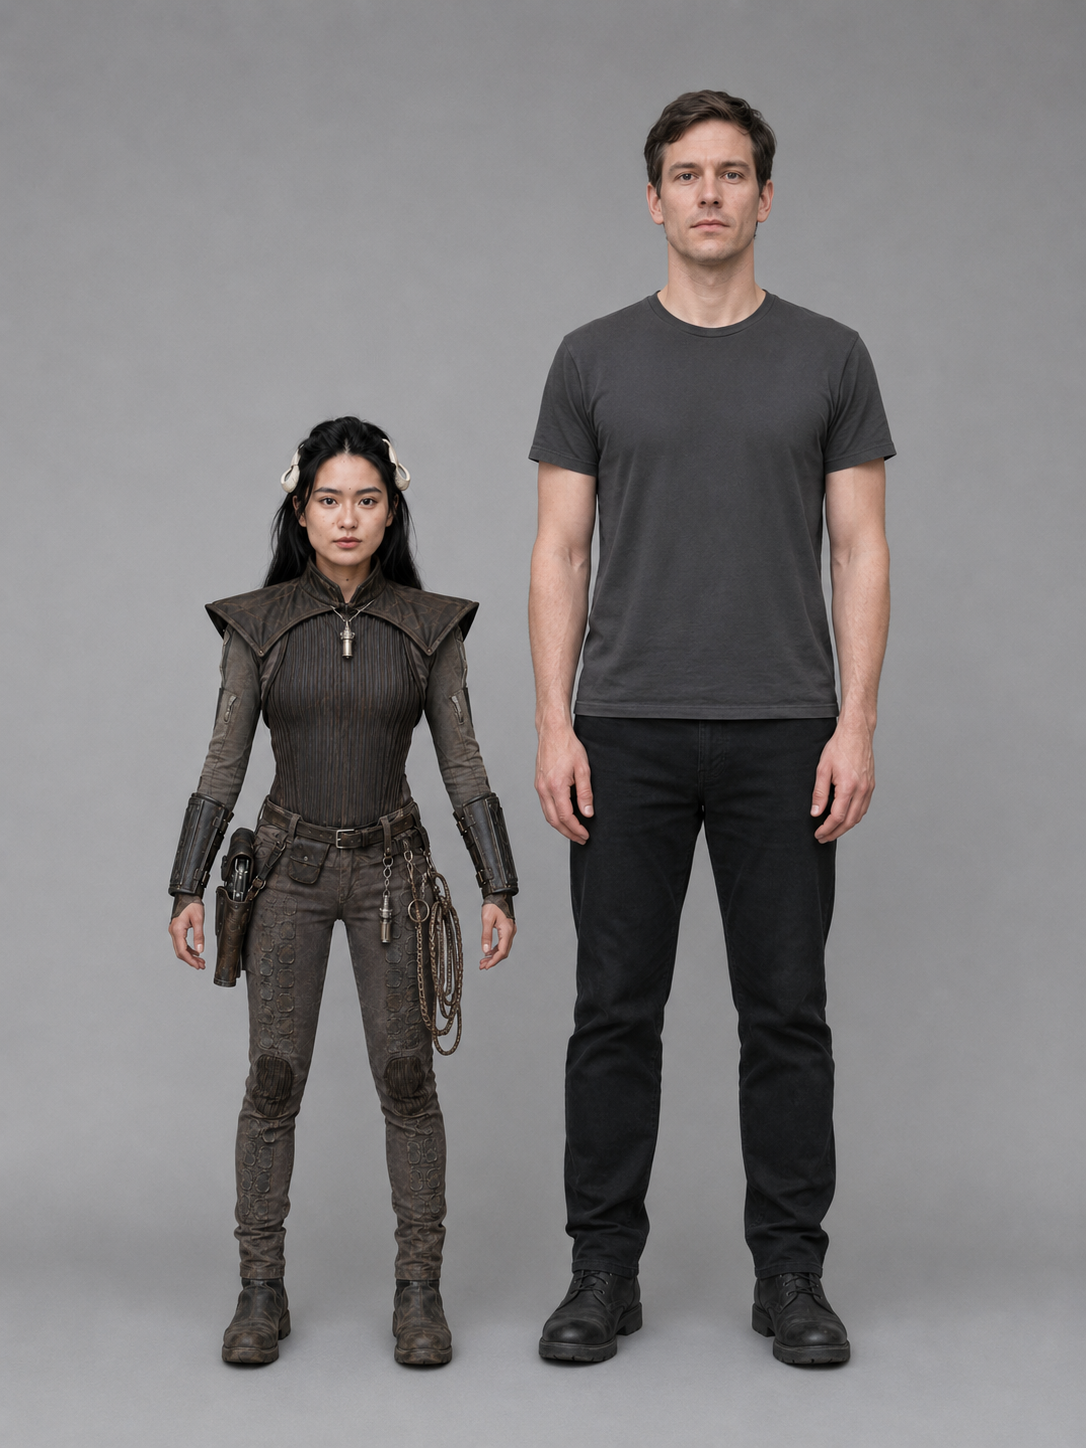
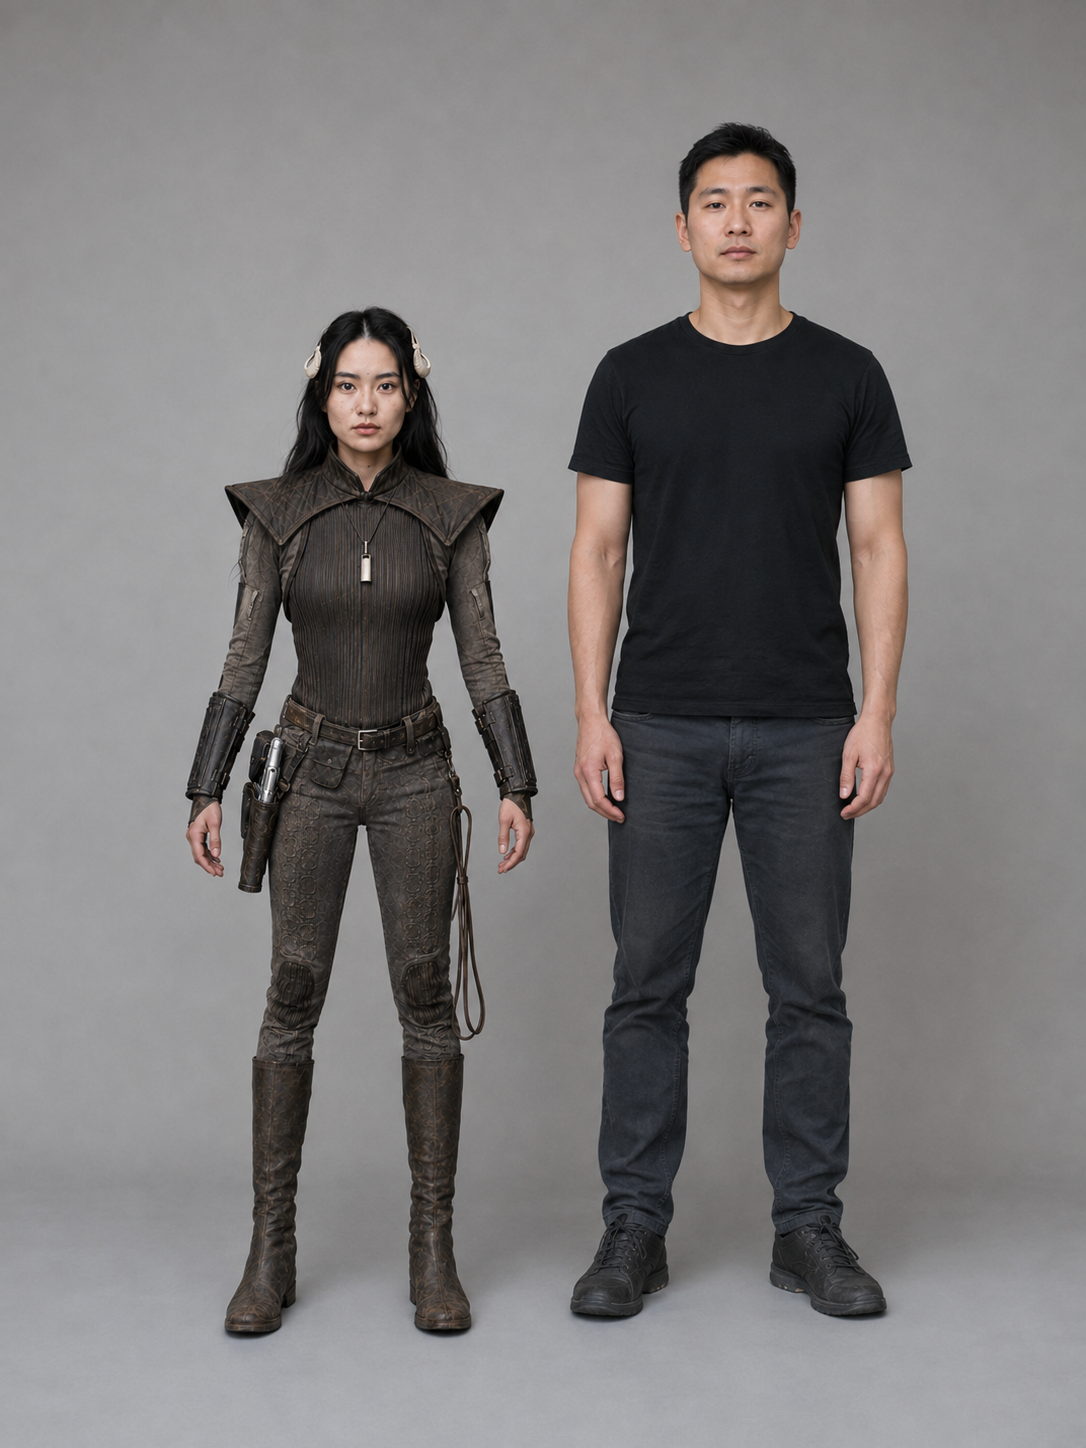
tools: publish signed-off turnarounds to Drive, and check it daily
One folder per character under Costume / Wardrobe. The repository is the
source of truth and Drive is overwritten, including deleting anything in the
character's turnarounds/ folder the repo does not have.

That is deliberate. The failure being prevented is somebody building from a
superseded plate, and a stale file beside a current one is exactly how that
happens -- a duplicate is worse than an absence, because an absence gets
noticed. Only turn-*.png syncs, into a turnarounds/ subfolder, so a sync can
never delete build guides or sketches sharing the folder.

Sign-off is an approved: block in outfits.yaml, already the gate for the board
generator, the turnaround prompts and APPROVAL.md.

IT FOUND LIVE DRIFT. Jasu's Drive folder holds the superseded v1 turnarounds
from 2026-08-01 -- turn-field-front.png there is 2,207,890 bytes, byte for
byte the v1 front archived tonight. The costume department is currently
looking at ankle boots and a whistle at the belt.

Why rclone and not the Drive connector, both checked rather than assumed: the
connector cannot update or delete, only create, so re-publishing through it
leaves two files with the same name and different contents -- the exact
failure this prevents. And it carries images inline, ~2.7M characters for a
2MB plate. So the connector does the checking, which needs only listings, and
rclone does the moving.

Not yet runnable: rclone is not installed. The script fails with the setup
steps rather than half-working.
[…]

diff --git a/11-production-tracking/Drive-Publishing.md b/11-production-tracking/Drive-Publishing.md
@@ -1,0 +1,124 @@
+---
+title: "Publishing to Drive — signed-off turnarounds"
+asset_id: "TRACK-DRIVE-PUBLISHING"
+updated: "2026-08-03"
+status: "open — rclone not yet installed"
+---
+
+# Publishing to Drive — signed-off turnarounds
+
+**When a character is signed off, their turnarounds go to Google Drive so the
+costume department can build from them.** One folder per character, inside
+**Costume / Wardrobe**:
+
+<https://drive.google.com/drive/folders/1twIFwScVQhGSgHpTfmPieEMA5jjU5g8T>
+
+```
+Costume / Wardrobe /
+  Captain Jasu / turnarounds /   turn-field-front.png … + PUBLISHED-FROM-REPO.txt
+  Shada        / turnarounds /   …
+```
+
+## The rule
+
+> **THE REPOSITORY IS THE SOURCE OF TRUTH. Drive is a copy and may be
+> overwritten without asking.**
+
+Publishing is **one-way and destructive on the Drive side**: Drive is made to
+match the repo, and anything in the character's `turnarounds/` folder that is not
+in the repo is deleted.
+
+That is deliberate. **The failure this exists to prevent is somebody building
+from a superseded image**, and a stale file sitting beside a current one — same
+character, same costume, different boots — is exactly how that happens. A
+duplicate is worse than an absence, because an absence gets noticed.
+
+Only the **turnarounds** are synced, into a `turnarounds/` subfolder, so a sync
+can never delete build guides, sketches or notes that live in the same character
+folder.
+
+## Sign-off means an approved outfit
+
+A character is published when `outfits.yaml` carries an `approved:` block.
+That is already the sign-off gate everywhere else in this repository — the board
+generator, the turnaround prompts and `APPROVAL.md` all key off it — and it is
+the gate here too. **No approval, no publish**, and the script says so per
+character rather than silently skipping.
+
+## How
+
+```bash
+./tools/publish-to-drive                 # dry run — shows what WOULD change
+./tools/publish-to-drive --go            # publish everything approved
+./tools/publish-to-drive captain-jasu --go
+```
+
+**It needs `rclone`, which is not installed yet.** Setup is in the header of the
+script: install it, run `rclone config`, create a Drive remote named exactly
+`tpof`, and choose **full drive scope** — `drive.file` scope cannot see the
+existing Costume/Wardrobe folder, because rclone did not create it.
+
+The Drive account is **`info@tristanpretty.com`**, which is not the Claude
+account.
+
+### Why not the Drive connector Claude already has
+
+Two hard limits, both checked rather than assumed:
+
+1. **It cannot update or delete.** It can create files and folders and nothing
+   else. Re-publishing through it leaves **two files with the same name and
+   different contents**, which is the precise failure this process exists to
+   prevent.
+2. **It has to carry the image inline.** A 2 MB plate is about 2.7 million
+   characters once base64-encoded. It is not a practical transport for a
+   twenty-one image pack.
+
+So the connector is used for **checking** — which is cheap, because listing
+names, sizes and dates needs no file contents — and `rclone` does the moving.
+
+## KNOWN DRIFT, 2026-08-03 — Drive is currently wrong
+
+**Captain Jasu's Drive folder holds the SUPERSEDED v1 turnarounds**, uploaded
+2026-08-01. `turn-field-front.png` there is **2,207,890 bytes — byte-for-byte the
+v1 front** now archived at `evolution/00-first-approved-2026-08-01.png`.
+
+So the costume department currently has, from Drive:
+
+- **ankle boots** where the build list says tall to the calf
+- **a whistle at the belt** where there is exactly one, at the throat
+- the superseded hair
+
+**This is the first thing to publish once rclone is set up.** A stray `.gitkeep`
+also got uploaded and the sync will remove it.
+
+## The daily check
+
+- [ ] **Check Drive against the repository, daily.** Compare each published
+      character's `turnarounds/` folder against `source/artwork/`: same filenames,
+      and a `PUBLISHED-FROM-REPO.txt` whose commit matches what the repo has for
+      those images. Report drift; do not fix it silently.
+
+**Claude can run this check through the Drive connector** — it needs only file
+listings, not contents, so it is cheap. It cannot fix the drift, only report it,
+because the connector cannot delete or overwrite. Fixing is
+`./tools/publish-to-drive --go`.
+
+**What counts as drift:**
+
+| | |
+|---|---|
+| A file in Drive that is not in the repo | **Stale — the dangerous one.** Something was superseded and the old copy is still being shown |
+| A file in the repo that is not in Drive | Not yet published |
+| Two files with the same name | Somebody uploaded by hand, or through a tool that cannot overwrite |
+| `PUBLISHED-FROM-REPO.txt` missing or on an old commit | Published before this process existed, or published and then the repo moved on |
+
+**Worth automating as a scheduled agent** rather than remembering — see `/schedule`.
+Not set up yet; a daily run that reports drift and does nothing else is the
+right shape, because the fix needs a person to have decided the repo is right.
+
+## See also
+
+- [`Cast-Data-Source.md`](Cast-Data-Source.md) — the traffic in the other
+  direction, and why it does **not** happen: personal data stays in Drive and
+  never enters this repository
+- [`../03-characters/APPROVAL.md`](../03-characters/APPROVAL.md) — what sign-off means

diff --git a/CHANGELOG.md b/CHANGELOG.md
@@ -25,6 +25,45 @@ All notable production-bible changes are recorded here.
 
 ### Added
 
+- **Signed-off turnarounds now publish to Google Drive, 2026-08-03** —
+  `tools/publish-to-drive` and `11-production-tracking/Drive-Publishing.md`. One
+  folder per character under Costume / Wardrobe, so the costume department builds
+  from the current images.
+
+  **The repository is the source of truth and Drive is overwritten**, including
+  deleting anything in the character's `turnarounds/` folder that the repo does
+  not have. That is deliberate: the failure being prevented is somebody building
+  from a superseded plate, and a stale file beside a current one is exactly how
+  that happens — a duplicate is worse than an absence, because an absence gets
+  noticed. Only `turn-*.png` is synced, into a `turnarounds/` subfolder, so a
+  sync can never delete build guides or sketches sharing the folder.
+
+  **Sign-off is an `approved:` block in `outfits.yaml`** — already the gate for
+  the board generator, the turnaround prompts and `APPROVAL.md`, so it is the
+  gate here too.
+
+  **It found live drift immediately.** Captain Jasu's Drive folder holds the
+  **superseded v1 turnarounds** from 2026-08-01: `turn-field-front.png` there is
+  2,207,890 bytes, byte-for-byte the v1 front archived tonight as
+  `evolution/00-first-approved-2026-08-01.png`. **The costume department is
+  currently looking at ankle boots and a whistle at the belt.**
+
+  **Why rclone and not the Drive connector**, both checked rather than assumed:
+  the connector **cannot update or delete**, only create — so re-publishing
+  through it leaves two files with the same name and different contents, which is
+  the exact failure the process exists to prevent. And it carries images inline,
+  about 2.7 million characters for a 2 MB plate. So the connector does the
+  **checking**, which needs only listings, and rclone does the moving.
+
+  **Not yet runnable — rclone is not installed.** The script says so and prints
+  the setup. Publishing Jasu is the first job once it is.
+
+  A daily drift check is logged in `Drive-Publishing.md`, with what counts as
+  drift and the note that a scheduled agent is the right shape for it — reporting
+  only, because the fix needs a person to have decided the repo is right.
+
+### Added
+
 - **Captain Jasu's turnaround set is complete and correct — v2, 2026-08-03.**
   Front re-approved and all four remaining views regenerated against it. The v1
   set, generated 2026-08-01, is superseded in full: it carried ankle boots, a

diff --git a/11-production-tracking/Production-Status.md b/11-production-tracking/Production-Status.md
@@ -15,6 +15,7 @@
 | **Akk dog** | **Measured 2026-08-03 from the rig — 0.85 m at the crest, a very large dog.** Nine reference plates filed, dentition and Scene 25 reasoning recorded. Three renders still owed: front, rear and a seated pose. See `08-species/akk-dog/Creature.md` |
 | **Prompt library** | **`09-prompt-library/README.md` is the index.** Read `Writing-Rules-A-Generator-Can-Follow.md` before editing any prompt |
 | **Cast data** | **NOT IN THIS REPOSITORY, and that is a standing rule — `Cast-Data-Source.md`.** This repo is **public**; measurements, contracts, fees and contacts stay in Google Drive. Character specs live here, performer data does not |
+| **Drive publishing** | **Signed-off turnarounds go to Drive, one folder per character — `Drive-Publishing.md`.** The repo is the source of truth and Drive is overwritten. **Currently WRONG: Jasu's Drive folder holds the superseded v1 turnarounds** — ankle boots and a belt whistle. Needs `rclone` installed, then `./tools/publish-to-drive --go`. Check daily |
 | **Scope, decided 2026-08-03** | **TIERED.** Baylan, Shin and Jasu get the full ~21-image treatment. Nyx, Krellis, Jeyin, Vala and the mercenaries get a reduced ~11-image set — turnarounds, portrait, expressions, scale plate, one materials plate, one narrative frame, tone collage, and three boards |
 | **Mercenary Kit boards, decided 2026-08-03** | **ONE SHARED SET, FOUR COLUMNS.** Four turnaround boards as now, plus one costume, weapons and materials board treating all four side by side. They are a group design and the comparison is the point |
 | **OPEN — species** | Nyx, Krellis, Vala, Jeyin, Reya, Yaslo all say TBD. **`outfits.yaml` cannot be written for any of them until this is settled.** Nyx may already be decided as baseline human |

diff --git a/REPO-STATE.md b/REPO-STATE.md
@@ -1,12 +1,12 @@
 # Repository state
 
-**Stamped 2026-08-03 22:21 UTC** — automatically, by `tools/hooks/pre-commit`, at the moment of
+**Stamped 2026-08-03 22:24 UTC** — automatically, by `tools/hooks/pre-commit`, at the moment of
 the commit that contains this file.
 
 | | |
 |---|---|
 | Branch | `main` |
-| Commit before this one | `bd95f6c` |
+| Commit before this one | `c5b34cb` |
 | Screenplay | `the-price-of-freedom-v10.fountain` |
 | Character folders | 12 |
 | Generated prompt files | 267 |
